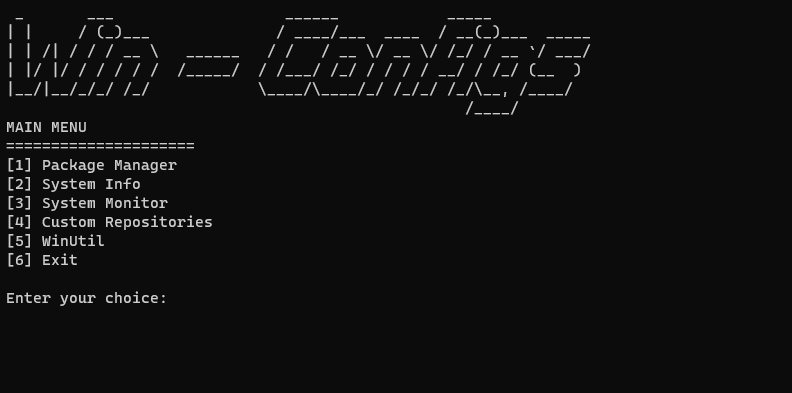
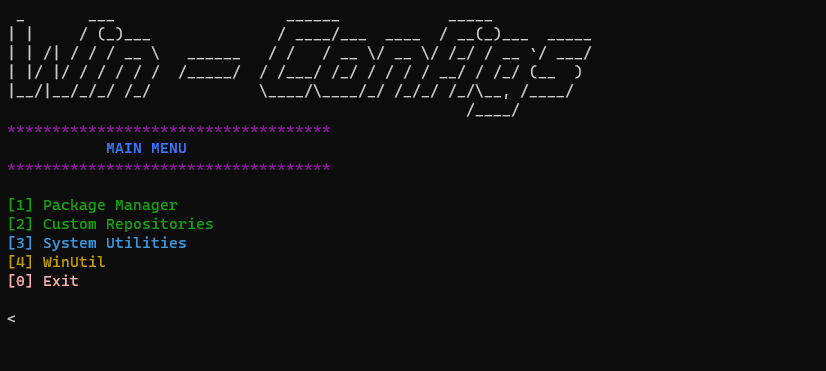
⚙ Add: Files

Changed region(s): [[0.0, 0.0296, 0.7576, 0.3261], [0.0, 0.2965, 0.3939, 0.7709]]

diff --git a/README.md b/README.md
@@ -1,9 +1,6 @@
 # ⚙ \\\ WinConfigs
 A simple tool to manage Windows utilities, system info, repositories, and performance tweaks.
 
-> [!NOTE]
-> This script was made for my personal use and is not fully updated. It's still a work in progress.
-
 ## 📦 Installation 
 
 ### 1. Download the repository
@@ -27,7 +24,7 @@ git clone https://github.com/fr0st-iwnl/WinConfigs.git
 
 ## 📝 TODO's
 
-- [ ] Create categories for **System Monitor**, **System Info**, and others.
-- [ ] Enhance UI with colors for a better user experience.
-- [ ] Make paths for ASCII folder; if the user doesn't extract it, it should not appear.
-- [ ] Add more improvements and features.
+- [x] Create categories for **System Monitor**, **System Info**, and others.
+- [x] Enhance UI with colors for a better user experience.
+- [x] Make paths for ASCII folder; if the user doesn't extract it, it should not appear.
+- [x] Add more improvements and features.
